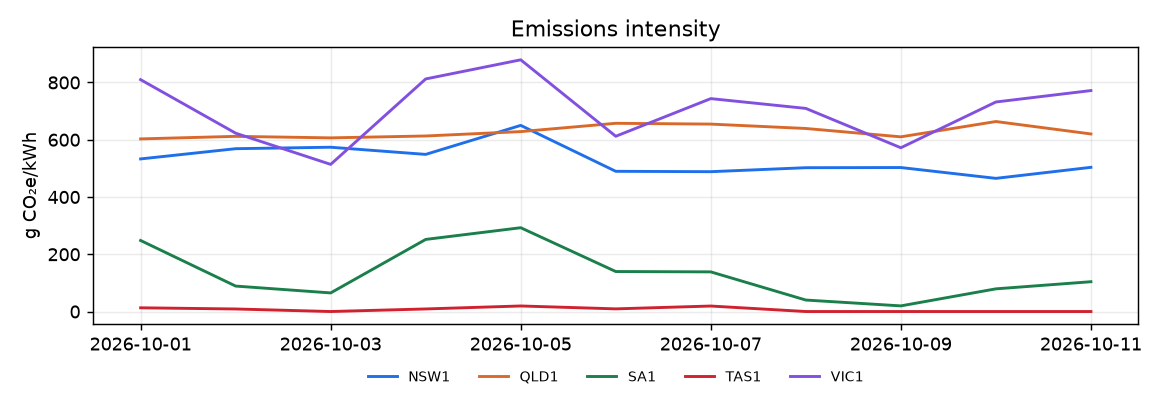
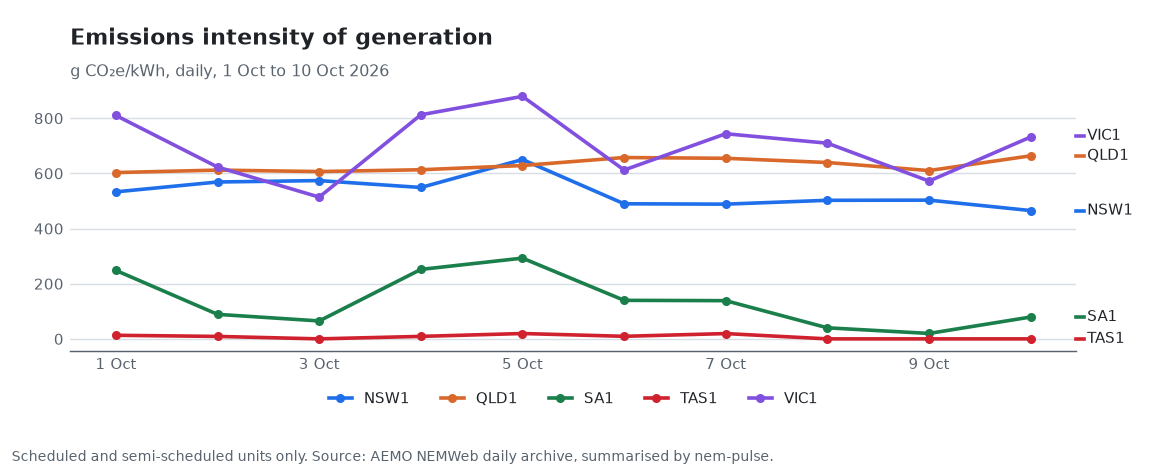
Redraw charts with direct labels, date ticks and source notes
Left-aligned titles with unit and date range, short date ticks, end-of-line
region labels (the closest colour pair is in the colour vision warning band),
a zero line on the price chart, and a footnote with the source and the main
caveat for each chart. PNG metadata no longer carries the matplotlib version,
so a library upgrade alone does not create a data commit.

diff --git a/src/nem_pulse/charts.py b/src/nem_pulse/charts.py
@@ -1,14 +1,41 @@
+"""Daily line charts per region (assets/*.png), redrawn on every run."""
+
 from __future__ import annotations
 
+from itertools import pairwise
 from pathlib import Path
 
 import matplotlib
 
 matplotlib.use("Agg")
+import matplotlib.dates as mdates
 import matplotlib.pyplot as plt
 import pandas as pd
 
-COLORS = {"NSW1": "#1f6feb", "QLD1": "#d9692b", "VIC1": "#8250df", "SA1": "#1a7f4b", "TAS1": "#cf222e"}
+# Fixed colour per region (identity never depends on rank). Checked for colour vision deficiency:
+# the closest pair is in the warning band, so every line also carries a direct label at its end.
+COLORS = {"NSW1": "#1f6feb", "QLD1": "#d9692b", "SA1": "#1a7f4b", "TAS1": "#cf222e", "VIC1": "#8250df"}
+INK, MUTED, GRID = "#1f2328", "#59636e", "#d8dee4"
+SOURCE = "Source: AEMO NEMWeb daily archive, summarised by nem-pulse."
+
+CHARTS = [
+    # metric, title, file name, scale, unit, footnote
+    ("renewable_share", "Renewable share of generation", "renewables.png", 100, "%",
+     "Excludes rooftop solar, so daytime renewables in NSW, QLD and SA read low."),
+    ("avg_price", "Average daily spot price", "price.png", 1, "$/MWh", "Time-weighted mean of 5-minute prices."),
+    ("intensity_g_per_kwh", "Emissions intensity of generation", "intensity.png", 1, "g CO₂e/kWh",
+     "Scheduled and semi-scheduled units only."),
+]
+
+
+def _spread(ys: list[float], gap: float) -> list[float]:
+    """Push label positions apart (in data units) so no two are closer than `gap`, keeping their order."""
+    order = sorted(range(len(ys)), key=lambda i: ys[i])
+    out = list(ys)
+    for a, b in pairwise(order):
+        if out[b] - out[a] < gap:
+            out[b] = out[a] + gap
+    return out
 
 
 def render(history: pd.DataFrame, out: Path, days: int = 60) -> list[Path]:
@@ -16,15 +43,47 @@ def render(history: pd.DataFrame, out: Path, days: int = 60) -> list[Path]:
     h = history[history["region"] != "NEM"].copy()
     h["date"] = pd.to_datetime(h["date"])
     h = h[h["date"] >= h["date"].max() - pd.Timedelta(days=days - 1)]
+    first, last = h["date"].min(), h["date"].max()
+    span = f"{first:%-d %b} to {last:%-d %b %Y}" if first != last else f"{last:%-d %b %Y}"
+    n_days = h["date"].nunique()
     paths = []
-    for metric, title, fname, scale, unit in [
-        ("renewable_share", "Renewable share of generation", "renewables.png", 100, "%"),
-        ("avg_price", "Average daily price", "price.png", 1, "$/MWh"),
-        ("intensity_g_per_kwh", "Emissions intensity", "intensity.png", 1, "g CO₂e/kWh"),
-    ]:
-        fig, ax = plt.subplots(figsize=(9, 3.2))
+    for metric, title, fname, scale, unit, note in CHARTS:
+        fig, ax = plt.subplots(figsize=(9, 3.6), facecolor="white")
+        ends = []
         for region, g in h.groupby("region"):
-            ax.plot(g["date"], g[metric] * scale, label=region, color=COLORS.get(region), lw=1.6)
-        ax.set_title(title); ax.set_ylabel(unit); ax.grid(alpha=.25); ax.legend(ncol=5, fontsize=8, loc="upper center", bbox_to_anchor=(0.5, -0.12), frameon=False)
-        fig.tight_layout(); p = out / fname; fig.savefig(p, dpi=130); plt.close(fig); paths.append(p)
+            g = g.sort_values("date")
+            ax.plot(g["date"], g[metric] * scale, color=COLORS.get(region), lw=2,
+                    marker="o" if n_days <= 20 else None, ms=4, label=region)
+            ends.append((region, float(g[metric].iloc[-1] * scale)))
+
+        lo, hi = ax.get_ylim()
+        label_y = _spread([y for _, y in ends], gap=(hi - lo) * 0.075)
+        for (region, _), y in zip(ends, label_y, strict=True):
+            ax.annotate(region, xy=(1, y), xycoords=("axes fraction", "data"), xytext=(6, 0),
+                        textcoords="offset points", va="center", fontsize=8.5, color=INK)
+            ax.plot([1.0, 1.008], [y, y], transform=ax.get_yaxis_transform(), color=COLORS.get(region),
+                    lw=2, clip_on=False)
+
+        if metric == "avg_price" and lo < 0 < hi:
+            ax.axhline(0, color=MUTED, lw=0.8)
+        ax.set_title(title, loc="left", fontsize=12, fontweight="bold", color=INK, pad=22)
+        ax.text(0, 1.03, f"{unit}, daily, {span}", transform=ax.transAxes, fontsize=9, color=MUTED)
+        fig.text(0.01, 0.015, f"{note} {SOURCE}", fontsize=7.5, color=MUTED)
+
+        locator = mdates.AutoDateLocator(minticks=4, maxticks=8)
+        ax.xaxis.set_major_locator(locator)
+        ax.xaxis.set_major_formatter(mdates.DateFormatter("%-d %b"))
+        ax.grid(axis="y", color=GRID, lw=0.8)
+        ax.set_axisbelow(True)
+        for side in ("top", "right", "left"):
+            ax.spines[side].set_visible(False)
+        ax.spines["bottom"].set_color(MUTED)
+        ax.tick_params(colors=MUTED, labelsize=8.5, length=0)
+        ax.legend(ncol=5, fontsize=8.5, loc="upper center", bbox_to_anchor=(0.5, -0.1), frameon=False,
+                  labelcolor=INK, handlelength=1.5)
+        fig.subplots_adjust(left=0.06, right=0.92, top=0.82, bottom=0.25)
+        p = out / fname
+        fig.savefig(p, dpi=130, metadata={"Software": None})
+        plt.close(fig)
+        paths.append(p)
     return paths

diff --git a/tests/test_pulse.py b/tests/test_pulse.py
@@ -191,3 +191,10 @@ def test_cli_rejects_a_days_value_below_one(days):
     with pytest.raises(SystemExit) as exc:
         cli.main(["--days", days])
     assert exc.value.code == 2
+
+
+def test_chart_labels_are_spread_apart_without_reordering():
+    from nem_pulse.charts import _spread
+
+    assert _spread([10.0, 10.5, 50.0], gap=2) == [10.0, 12.0, 50.0]
+    assert _spread([30.0, 29.0], gap=5) == [34.0, 29.0]
